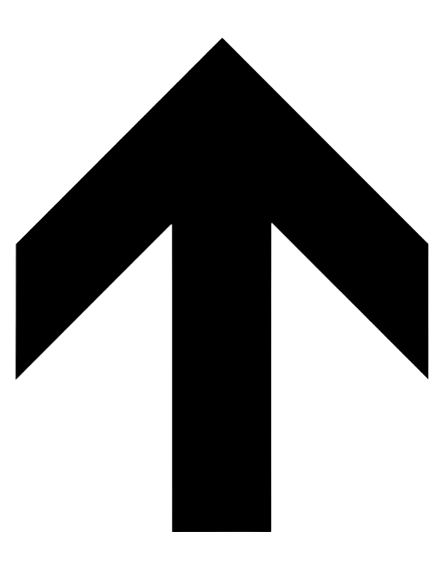
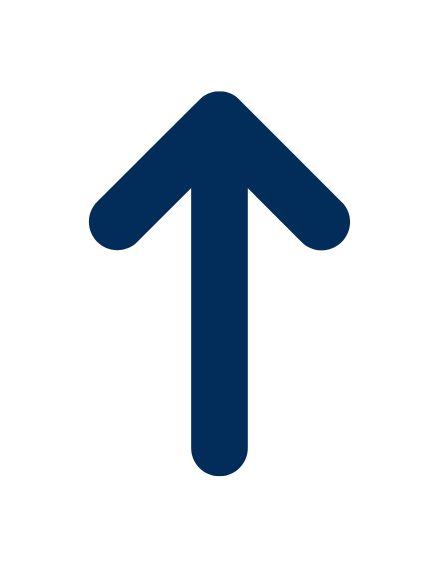
New arrows for signage and push notification is correct.

diff --git a/src/main/java/edu/wpi/teamg/controllers/SignageEditorController.java b/src/main/java/edu/wpi/teamg/controllers/SignageEditorController.java
@@ -13,12 +13,17 @@ import java.util.ArrayList;
 import java.util.Arrays;
 import java.util.Collections;
 import java.util.HashMap;
+import javafx.animation.FadeTransition;
+import javafx.animation.ParallelTransition;
 import javafx.application.Platform;
 import javafx.collections.FXCollections;
 import javafx.collections.ObservableList;
 import javafx.fxml.FXML;
 import javafx.scene.image.Image;
 import javafx.scene.image.ImageView;
+import javafx.scene.layout.AnchorPane;
+import javafx.scene.text.Text;
+import javafx.util.Duration;
 
 public class SignageEditorController {
   Image westArrow = new Image("edu/wpi/teamg/Images/WestArrow.png");
@@ -70,7 +75,11 @@ public class SignageEditorController {
   @FXML MFXFilterComboBox yearDrop;
   // @FXML MFXComboBox kioskDrop;
 
+  @FXML AnchorPane forms;
+
   static boolean attribute = false;
+
+  static boolean playAnimation;
 
   public static String[] locationNameSave = new String[10];
   ObservableList<String> locationList;
@@ -100,6 +109,11 @@ public class SignageEditorController {
     DAORepo dao = new DAORepo();
     monthDrop.setItems(monthChoice);
     yearDrop.setItems(yearChoice);
+
+    if(playAnimation){
+      completeAnimation("Signage configuration added.");
+      playAnimation = false;
+    }
 
     HashMap<Integer, String> locationHash = App.ln;
 
@@ -470,7 +484,111 @@ public class SignageEditorController {
           new Signage((String) locationDrop.getValue(), null, sb.toString(), sb1.toString(), false);
       SignageDAO dao = new SignageDAO();
       dao.insert(signage);
-      Navigation.navigate(Screen.SIGNAGE_EDITOR_SUBMIT);
+
+      SignageEditorController.playAnimation = true;
+      Navigation.navigate(Screen.EDIT_SIGNAGE_PAGE);
+
+      // Navigation.navigate(Screen.SIGNAGE_EDITOR_SUBMIT);
     }
+  }
+
+  public void completeAnimation(String message) {
+
+    // Form Completion PopUp
+    AnchorPane rect = new AnchorPane();
+    rect.setLayoutX(1300);
+    rect.setStyle(
+        "-fx-pref-width: 400; -fx-pref-height: 100; -fx-background-color: #97E198; -fx-background-radius: 10");
+    rect.setLayoutY(800);
+    rect.toFront();
+
+    Text completionText = new Text("You Are All Set!");
+    completionText.setLayoutX(1425);
+    completionText.setLayoutY(845);
+    completionText.setStyle(
+        "-fx-stroke: #000000;"
+            + "-fx-fill: #012D5A;"
+            + "-fx-font-size: 25;"
+            + "-fx-font-weight: 500;");
+    completionText.toFront();
+
+    Text completionTextSecondRow = new Text(message);
+    completionTextSecondRow.setLayoutX(1425);
+    completionTextSecondRow.setLayoutY(875);
+    completionTextSecondRow.setStyle(
+        "-fx-stroke: #404040;"
+            + "-fx-fill: #012D5A;"
+            + "-fx-font-size: 20;"
+            + "-fx-font-weight: 500;");
+    completionTextSecondRow.toFront();
+
+    // Image checkmarkImage = new Image("edu/wpi/teamg/Images/checkMarkIcon.png");
+    ImageView completionImage = new ImageView(App.checkmarkImage);
+
+    completionImage.setFitHeight(50);
+    completionImage.setFitWidth(50);
+    completionImage.setLayoutX(1325);
+    completionImage.setLayoutY(825);
+    completionImage.toFront();
+
+    rect.setOpacity(0.0);
+    completionImage.setOpacity(0.0);
+    completionText.setOpacity(0.0);
+    completionTextSecondRow.setOpacity(0.0);
+
+    forms.getChildren().add(rect);
+    forms.getChildren().add(completionText);
+    forms.getChildren().add(completionImage);
+    forms.getChildren().add(completionTextSecondRow);
+
+    FadeTransition fadeIn1 = new FadeTransition(Duration.seconds(0.5), rect);
+    fadeIn1.setFromValue(0.0);
+    fadeIn1.setToValue(1.0);
+
+    FadeTransition fadeIn2 = new FadeTransition(Duration.seconds(0.5), completionImage);
+    fadeIn2.setFromValue(0.0);
+    fadeIn2.setToValue(1.0);
+
+    FadeTransition fadeIn3 = new FadeTransition(Duration.seconds(0.5), completionText);
+    fadeIn3.setFromValue(0.0);
+    fadeIn3.setToValue(1.0);
+
+    FadeTransition fadeIn4 = new FadeTransition(Duration.seconds(0.5), completionTextSecondRow);
+    fadeIn4.setFromValue(0.0);
+    fadeIn4.setToValue(1.0);
+
+    ParallelTransition parallelTransition =
+        new ParallelTransition(fadeIn1, fadeIn2, fadeIn3, fadeIn4);
+
+    parallelTransition.play();
+
+    parallelTransition.setOnFinished(
+        (event) -> {
+          FadeTransition fadeOut1 = new FadeTransition(Duration.seconds(0.5), rect);
+          fadeOut1.setDelay(Duration.seconds(1.5));
+          fadeOut1.setFromValue(1.0);
+          fadeOut1.setToValue(0.0);
+
+          FadeTransition fadeOut2 = new FadeTransition(Duration.seconds(0.5), completionImage);
+          fadeOut2.setDelay(Duration.seconds(1.5));
+          fadeOut2.setFromValue(1.0);
+          fadeOut2.setToValue(0.0);
+
+          FadeTransition fadeOut3 = new FadeTransition(Duration.seconds(0.5), completionText);
+          fadeOut3.setDelay(Duration.seconds(1.5));
+          fadeOut3.setFromValue(1.0);
+          fadeOut3.setToValue(0.0);
+
+          FadeTransition fadeOut4 =
+              new FadeTransition(Duration.seconds(0.5), completionTextSecondRow);
+          fadeOut4.setDelay(Duration.seconds(1.5));
+          fadeOut4.setFromValue(1.0);
+          fadeOut4.setToValue(0.0);
+
+          fadeOut1.play();
+          fadeOut2.play();
+          fadeOut3.play();
+          fadeOut4.play();
+        });
   }
 }
